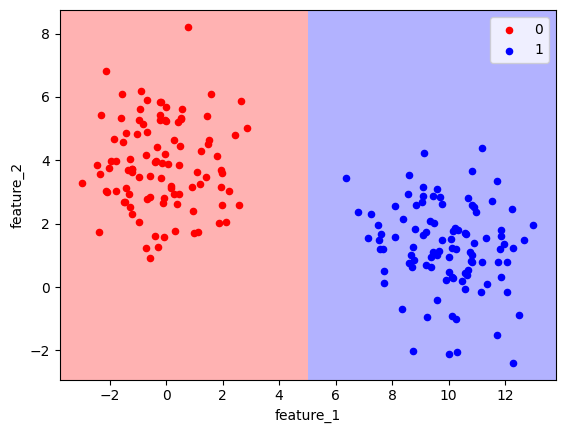
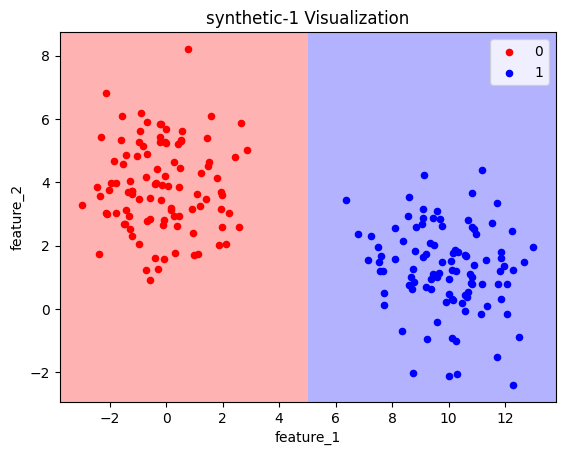
update print_tree()

diff --git a/Project1/syntheticDecisionTree.py b/Project1/syntheticDecisionTree.py
@@ -6,7 +6,8 @@
 '''
     Purpose: predict class label of a given synthetic data using decision tree
     Pre-cond: a synthetic data csv file
-    Post-cond: decision tree, predicted class label (0/1), and accuracy of predictions
+    Post-cond: decision tree, predicted class label (0/1), accuracy of classifier,
+                and scatter plot visualization
 
 '''
 
@@ -125,15 +126,15 @@ class DecisionTree(Node):
         return root
 
 
-    def printTree(self, root: Node, depth):
-        for i in range(depth):
-            print("\t", end="")
-        print(root.value, end="")
+    def print_tree(self, root: Node, depth):   
+        '''Print decision tree'''
+
+        print("\t"*(depth+1), end='')
         if root.is_leaf():
-            print(" -> ", root.value)
-        print()
+            print(" -> ", end='')
+        print(root.value)
         for child in root.children:
-            self.printTree(child, depth + 1)
+            self.print_tree(child, depth + 1)
 
 
     def find_boundaries(self, data: pd.DataFrame):
@@ -275,6 +276,7 @@ class DecisionTree(Node):
             group.plot(ax=axes, kind='scatter', x='feature_1', y='feature_2', 
             label=key, color=colors[key])
         plt.legend() # add legend to plot
+        plt.title(f'{DATA_FILE} Visualization')
 
         # get x gridlines based on feature 1 boundaries and x-axis limits
         x_left, x_right = axes.get_xlim()
@@ -328,7 +330,7 @@ def main():
 
     # make decision tree
     tree = DecisionTree(data)
-    #tree.printTree(tree.root, 0)
+    #tree.print_tree(tree.root, 0)
 
     # calculate predictions accuracy
     print('Accuracy of tree =', tree.calculate_accuracy(test_data, test_label_key))    

diff --git a/Project1/pokemonDecisionTree.py b/Project1/pokemonDecisionTree.py
@@ -6,8 +6,9 @@
 '''
     Purpose: predict legendary of a given pokemon data using decision tree
     Pre-cond: a pokemon stats data csv file and 
-            its corresponding legendary classification data csv file
-    Post-cond: decision tree, predicted legendary (True/False), and accuracy of predictions
+                its corresponding legendary classification data csv file
+    Post-cond: decision tree, predicted legendary (True/False), 
+                and accuracy ofclassifier
 
 '''
 
@@ -128,15 +129,15 @@ class DecisionTreeClassifier(Node):
         return root
 
 
-    def printTree(self, root: Node, depth):
-        for i in range(depth):
-            print("\t", end="")
-        print(root.value, end="")
+    def print_tree(self, root: Node, depth):
+        '''Print decision tree'''
+
+        print("\t"*(depth+1), end='')
         if root.is_leaf():
-            print(" -> ", root.value)
-        print()
+            print(" -> ", end='')
+        print(root.value)
         for child in root.children:
-            self.printTree(child, depth + 1)
+            self.print_tree(child, depth + 1)
 
 
     def find_boundaries(self, data: pd.DataFrame):
@@ -255,7 +256,7 @@ def main():
 
     # make decision tree
     tree = DecisionTreeClassifier(data, labels.columns[0], list(features.columns))
-    tree.printTree(tree.root, 0)
+    #tree.print_tree(tree.root, 0)
 
     # calculate predictions accuracy
     print('Accuracy of tree =', tree.calculate_accuracy(features, labels))    
